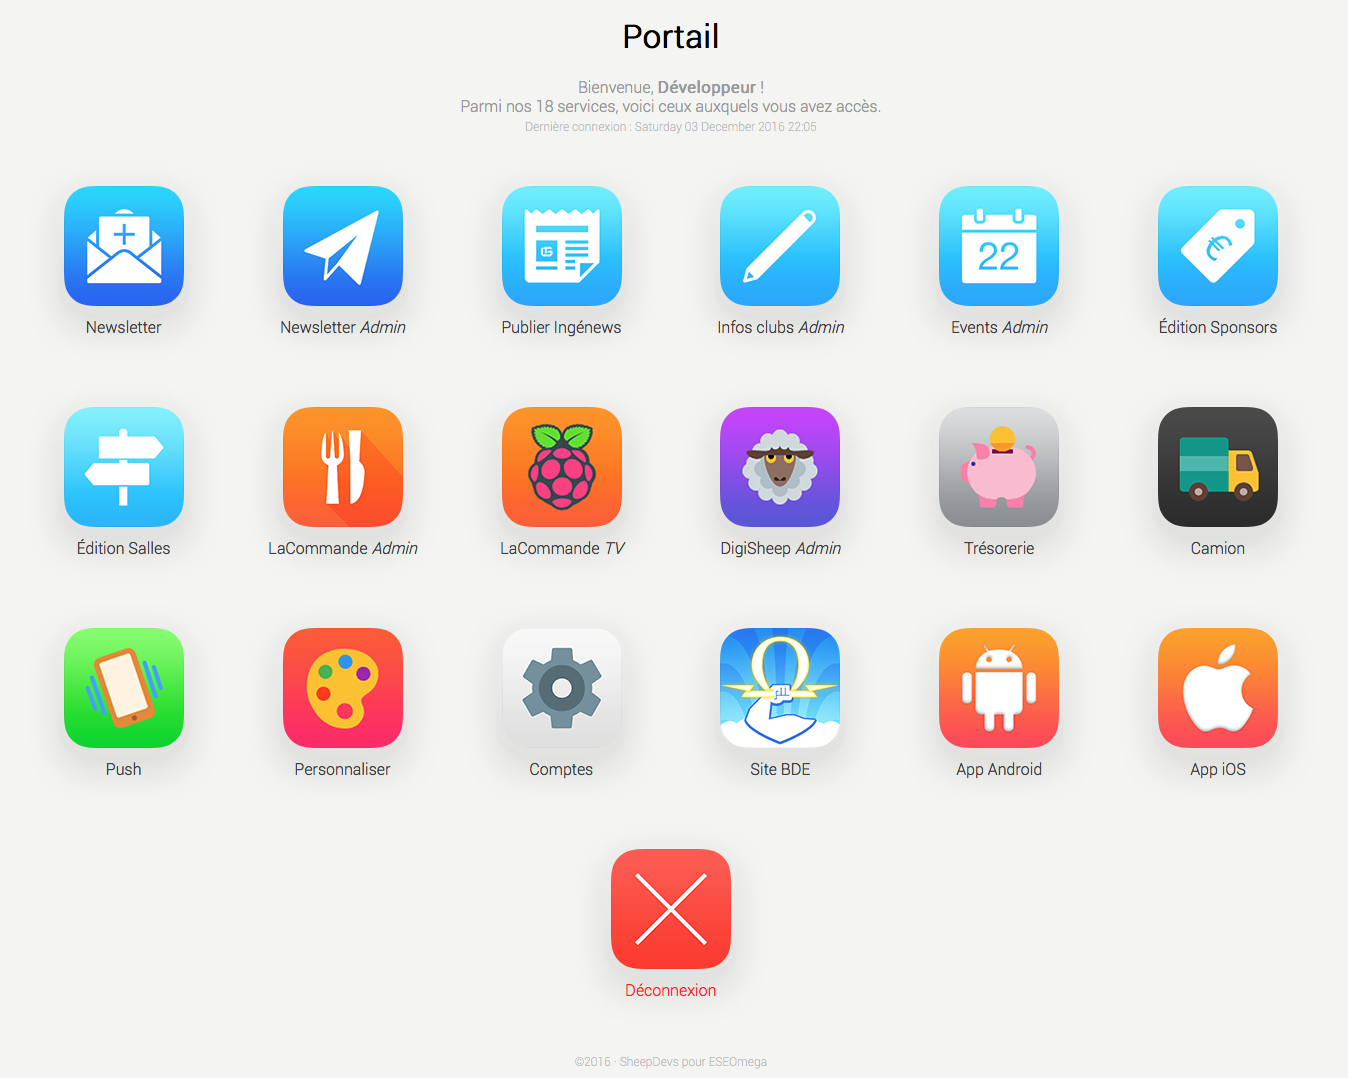
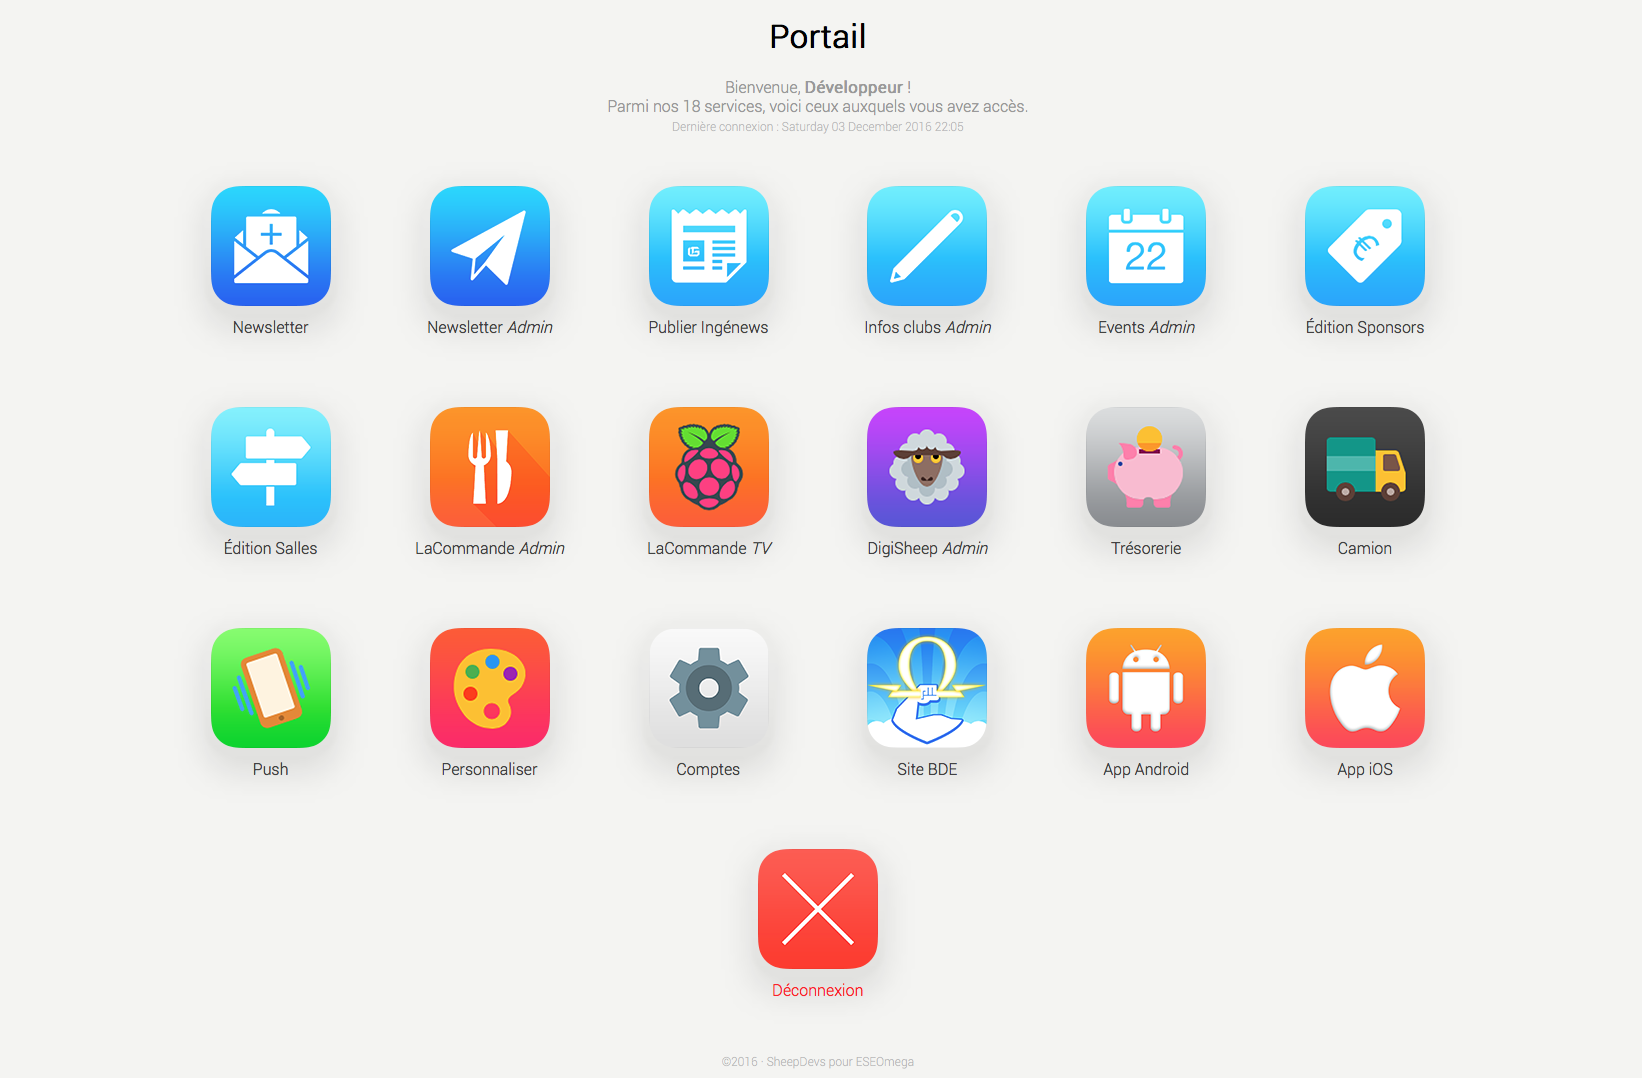
~ Fixed mobile layout
+ Links
+ Digisheep pic
~ Portail/DevCrew pics

diff --git a/style/style.css b/style/style.css
@@ -6,6 +6,11 @@
     font-weight: 300;
 }
 
+body {
+    background: url('../img/bg.png');
+    min-width: 560px;
+}
+
 strong {
     font-weight: 600;
 }
@@ -15,15 +20,6 @@ table {
     width: 99%;
     max-width: 1100px;
     table-layout: fixed;
-}
-
-table td {
-    vertical-align: top;
-}
-
-body {
-    background: url('../img/bg.png');
-    min-width: 740px;
 }
 
 .letterpress {
@@ -197,6 +193,7 @@ header td, th {
 
 #projects td {
     padding: 0px 15px 50px 15px;
+    vertical-align: top;
 }
 
 #projects h1 {
@@ -212,18 +209,14 @@ header td, th {
 
 #projects h3 {
     color: #888;
-    padding: 20px 0 40px 0;
-    font-size: 1.3em;
+    padding: 60px 0 40px 0;
+    font-size: 1.5em;
 }
 
 #projects p {
     color: #747474;
     font-weight: 400;
-    padding: 10px 0px;
-}
-
-#projects td.large p {
-    padding: 20px 0px;
+    padding: 10px 0;
 }
 
 #projects a {
@@ -231,6 +224,8 @@ header td, th {
     text-decoration: none;
     color: #A2A2A2;
     padding-bottom: 5px;
+    text-shadow: 0 1px 0 white;
+    font-weight: 400;
 }
 
 #projects a span {
@@ -255,11 +250,20 @@ header td, th {
     transition: 0.4s box-shadow ease-out;
     border-radius: 5px;
     margin-bottom: 10px;
-    clear: left;
+    white-space: none;
 }
 
 #projects img:hover, #projects video:hover {
     box-shadow: 0px 0px 30px #555;
+}
+
+#projects td.large p {
+    padding: 20px 0;
+}
+
+#projects td.large p, #projects td.large a {
+    margin-left: 60%;
+    padding-left: 40px;
 }
 
 #projects td.large img, #projects td.large video {
@@ -278,4 +282,26 @@ footer {
     text-align: center;
     color: #A2A2A2;
     font-size: 0.8em;
+}
+
+@media only screen and (max-width: 800px) {
+    td, th {
+        display: block;
+    }
+    
+    .stayInline {
+        display: inline-block;
+        width: 42%;
+    }
+    
+    #projects td.large p {
+        padding: 10px 0;
+    }
+
+    #projects td.large img, #projects td.large video {
+        margin-bottom: 10px;
+        float: none;
+        max-width: 100%;
+        max-height: 400px;
+    }
 }

diff --git a/data.php b/data.php
@@ -10,7 +10,10 @@ $PROJECTS =
         ["title"   => "Tramigo",
          "details" => "Always know when you can catch the next tram/subway/bus, you can't be late.<br>Tramigo shows you the schedule at the closest stop, in the city you are currently located. Many other features…<br>&nbsp;<br>Top app in Angers, France.",
          "imgs"    => ["img/projects/tramigo.png"],
-         "links"   => [["Visit website", "http://tomn.tramigoapp.com"], ["Download on the App Store", ""], ["Download on Google Play", ""], ["Download on the Windows Store", ""]]]
+         "links"   => [["Visit website", "http://tramigoapp.com"],
+                       ["Download on the App Store", "https://itunes.apple.com/app/apple-store/id913767394?pt=104224803&ct=Site%20perso&mt=8"],
+                       ["Download on Google Play", "http://tramigoapp.com"],
+                       ["Download on the Windows Store", "http://tramigoapp.com"]]]
     ],
     
     [
@@ -29,72 +32,83 @@ $PROJECTS =
         ["title"   => "Subtle Subtitles",
          "details" => "Subtitle player for movies and TV series:<br>Find, Play, Collect and Share!<br>&nbsp;<br>Thousands of downloads all around the world.",
          "imgs"    => ["img/projects/subtlesubs.png"],
-         "links"   => [["Download on the App Store", ""], ["View on GitHub", ""]]]
+         "links"   => [["Download on the App Store", "https://itunes.apple.com/app/apple-store/id1099663304?pt=104224803&ct=Site%20perso&mt=8"],
+                       ["View on GitHub", "https://github.com/Tomn94/Subtle-Subtitles"]]]
     ],
     
     [
         ["title"   => "Students’ Union app",
          "details" => "Complete iOS app dedicated to students at my Engineering School<br>&nbsp;<br>Gathers news, events, notifications, associations information &amp; contacts, deals, floor plans, file access, games…<br>Includes also a meal-ordering service and a store to buy tickets for events.<br>The app even accepts credit cards.",
          "imgs"    => ["img/projects/bdeeseo.png"],
-         "links"   => [["Download on the App Store", ""], ["View on GitHub", ""]]]
+         "links"   => [["Download on the App Store", "https://itunes.apple.com/app/apple-store/id966385182?pt=104224803&ct=Site%20perso&mt=8"],
+                       ["View on GitHub", "https://github.com/Tomn94/BDE-ESEO"]]]
+    ],
+    
+    [
+        ["title"   => "ESEOmega.fr",
+         "details" => "Dynamic website for my Students’ Union.<br>&nbsp;<br>Fetches data from the Students’ Union API.",
+         "imgs"    => ["img/projects/eseomega.png"],
+         "links"   => [["Visit website", "http://eseomega.fr"]]],
+         
+        ["title"   => "Blue Moon 2016",
+         "details" => "Website to promote and sell tickets for our event welcoming 2,700 students.<br>Featured Kavinsky, Jay Style, Natty Rico, and Dustycloud.",
+         "imgs"    => ["img/projects/bluemoon.mp4"],
+         "links"   => [["Visit website", "http://bluemoon.eseomega.fr"]]]
     ],
     
     [
         ["title"   => "Associations’ Portal",
          "details" => "Provides an API for all the services in Students’ Union iOS and Android apps.<br>&nbsp;<br>Moreover, the Portal allows associations with their IDs to deliver news, notifications, to send to mailing lists, to edit API data based on level access, and to manage the meal/tickets-ordering systems.<br>&nbsp;<br>A TV with a Raspberry Pi is connected to the Portail to show orders in the kitchen.",
          "imgs"    => ["img/projects/portail.png"],
-         "links"   => [["Visit website", ""], ["View on GitHub", ""]]],
+         "links"   => [["Visit website", "http://portail.eseomega.fr"],
+                       ["View on GitHub", "https://github.com/Tomn94/Portail-Vie-Asso-ESEO"]]],
          
         ["title"   => "DigiSheep",
-         "details" => "System to sell/buy tickets (including online), and then scan to grant access on-site.<br>Includes a website to manage data and check stats.<br>&nbsp;<br>Used to manage one event with 2,700 participants.",
-         "imgs"    => ["img/projects/digisheep.png"],
-         "links"   => [["Visit website", ""], ["Download on the App Store", ""], ["View on GitHub", ""]]]
-    ],
-    
-    [
-        ["title"   => "ESEOmega.fr",
-         "details" => "Dynamic website for my Students’ Union.",
-         "imgs"    => ["img/projects/eseomega.png"],
-         "links"   => [["Visit website", ""]]],
-         
-        ["title"   => "Blue Moon 2016",
-         "details" => "Website to promote and sell tickets for our event welcoming 2,700 students.",
-         "imgs"    => ["img/projects/bluemoon.mp4"],
-         "links"   => [["Visit website", ""]]]
+         "details" => "System to sell/buy tickets (including online), and then scan to grant access on-site.<br>Includes a website to manage data and check stats.<br>&nbsp;<br>Used to manage one event with 2,700 participants.<br>&nbsp;<br>Tied to BDE ESEO API and the Portal.",
+         "imgs"    => ["img/projects/digisheep.png", "img/projects/digisheep2.png"],
+         "links"   => [["Visit website", "http://portail.eseomega.fr"],
+                       ["Download on the App Store", "https://itunes.apple.com/app/apple-store/id1084746837?pt=104224803&ct=Site%20perso&mt=8"],
+                       ["View on GitHub", "https://github.com/Tomn94/DigiSheep"]]]
     ],
     
     [
         ["title"   => "Campaign app",
          "details" => "App that made us, ESEOmega, win the 2015 Students’ Union Election.<br>Includes members, events, information, videos, maps, a QR code-scanning game…",
          "imgs"    => ["img/projects/campaignapp.jpg"],
-         "links"   => [["View on GitHub", ""], ["Photograph © François Leparoux", "https://github.com/rascafr"]]],
+         "links"   => [["View on GitHub", "https://github.com/Tomn94/Campagne-ESEOmega"],
+                       ["Photograph © François Leparoux", "https://github.com/rascafr"]]],
          
         ["title"   => "Campaign website",
          "details" => "Website and API accompanying the app.<br>You should have seen the parallax effect and the opening animation!",
          "imgs"    => ["img/projects/campaignweb.png"],
-         "links"   => [["View on GitHub", ""]]],
+         "links"   => [["View on GitHub", "https://github.com/Tomn94/Campagne-ESEOmega.fr"]]],
          
         ["title"   => "MATLABit",
          "details" => "First app in Swift including a Fruit Ninja, a Tinder-like game and many funny useless features.<br>Enjoyed by students at the 2016 campaign.",
          "imgs"    => ["img/projects/matlabit.png"],
-         "links"   => [["Download on the App Store", ""], ["View on GitHub", ""]]]
+         "links"   => [["Download on the App Store", "https://itunes.apple.com/app/apple-store/id1102827778?pt=104224803&ct=Site%20perso&mt=8"],
+                       ["View on GitHub", "https://github.com/Tomn94/MATLABit"]]]
     ],
     
     [
         ["title"   => "@tomn_ebooks",
          "details" => "Me, as a Twitter bot.<br>Mix of my tweets.",
          "imgs"    => ["img/projects/ebooks.png"],
-         "links"   => [["View on Twitter", ""], ["View on GitHub", ""]]],
+         "links"   => [["View on Twitter", "https://twitter.com/tomn_ebooks"],
+                       ["View on GitHub", "https://github.com/Tomn94/ebooks_example"]],
+         "inline"  => true],
          
         ["title"   => "Music Tweet",
          "details" => "Simple app for iOS to share on Twitter the music from any app being currently played, including the artist and the album artwork.",
          "imgs"    => ["img/projects/musictweet.png"],
-         "links"   => [["View on GitHub", ""]]],
+         "links"   => [["View on GitHub", "https://github.com/Tomn94/Music-Tweet"]],
+         "inline"  => true],
          
         ["title"   => "Misc-Tools",
          "details" => "LaTeX base for documents, Apple Scripts…",
          "imgs"    => ["img/projects/latex.png"],
-         "links"   => [["View on GitHub", ""]]]
+         "links"   => [["View on GitHub", "https://github.com/Tomn94/Misc-Tools"]],
+         "inline"  => true]
     ],
     
     "// Deprecated projects",
@@ -106,57 +120,66 @@ $PROJECTS =
          "links"   => []],
          
         ["title"   => "∞Crypt",
-         "details" => "Encrypt & decrypt your texts and files with secure algorithms, in an innovative way thanks to plug-ins.<br>∞Crypt Text & ∞Crypt Files are cross-platform desktop apps.",
-         "imgs"    => ["img/projects/infinicrypttext.png", "img/projects/infinicryptfiles.png"],
+         "details" => "Encrypt & decrypt your files and texts with secure algorithms, in an innovative way thanks to plug-ins.<br>∞Crypt Files & ∞Crypt Text are cross-platform desktop apps.",
+         "imgs"    => ["img/projects/infinicryptfiles.png", "img/projects/infinicrypttext.png"],
          "links"   => []],
          
         ["title"   => "Tunnel Runners",
          "details" => "Multiplayer high-speed races and fights between vehicles in a tunnel.<br>Create your own tracks & play with your friends.",
          "imgs"    => ["img/projects/tunnelrunners.png"],
-         "links"   => []],
+         "links"   => [],
+         "inline"  => true],
          
         ["title"   => "Mario",
          "details" => "<em>Mario & Luigi: Yoshis' Cookies Story</em> is a 2D Mario adventure gathering most of the characters from Mario games.",
          "imgs"    => ["img/projects/mario.png"],
-         "links"   => []]
+         "links"   => [],
+         "inline"  => true]
     ],
     
     [
         ["title"   => "Network Chat",
          "details" => "Client & server multi-platform chat on a local network.<br>Inconspicuous user interface, file transferts, chat commands…",
          "imgs"    => ["img/projects/netchat.png"],
-         "links"   => []],
+         "links"   => [],
+         "inline"  => true],
          
         ["title"   => "DevCrew",
          "details" => "Website for a team of developers I was a member.",
          "imgs"    => ["img/projects/devcrew.jpg"],
-         "links"   => []],
+         "links"   => [],
+         "inline"  => true],
          
         ["title"   => "DelDots",
          "details" => "Deletes every macOS hidden file (used by Spotlight) in a given folder.",
          "imgs"    => ["img/projects/deldots.png"],
-         "links"   => []],
+         "links"   => [],
+         "inline"  => true],
          
         ["title"   => "InstaTP",
          "details" => "Specific program: assembles C files into a single smart C file.",
          "imgs"    => ["img/projects/tp.jpg"],
-         "links"   => []]
+         "links"   => [],
+         "inline"  => true]
     ],
     
     [
         ["title"   => "BaggIt",
          "details" => "Gather every profile you have on the Internet on a single customizable page.",
          "imgs"    => ["img/projects/baggit.jpg"],
-         "links"   => []],
+         "links"   => [],
+         "inline"  => true],
          
         ["title"   => "Cortexis",
          "details" => "Rich platform for schools (mail, forums, sharing tools…).",
          "imgs"    => ["img/projects/cortexis.jpg"],
-         "links"   => []],
+         "links"   => [],
+         "inline"  => true],
          
-        ["title"   => "Ball",
-         "details" => "List of user-submitted songs in order to contribute to a Charity Dance.",
+        ["title"   => "Charity Dance",
+         "details" => "List of user-submitted songs in order to contribute to a ball.",
          "imgs"    => ["img/projects/ball.jpg"],
-         "links"   => []]
+         "links"   => [],
+         "inline"  => true]
     ]
 ];

diff --git a/index.php b/index.php
@@ -7,6 +7,7 @@
   <head>
     <meta charset="utf-8">
     <title><?php echo $PAGE_TITLE; ?></title>
+    <meta name="viewport" content="width=device-width">
     <link rel="stylesheet" href="style/style.css">
     <script src="scripts/script.js"></script>
     
@@ -87,18 +88,32 @@
               <tr>
                   <?php
                     foreach ($projectsRow as $project) {
-                       echo (count($projectsRow) == 1) ? '<td class="large">' : '<td>';
+                       echo '<td';
+                       if (count($projectsRow) == 1 || (isset($project["inline"]) && $project["inline"])) {
+                           echo ' class="';
+                           if (count($projectsRow) == 1) echo "large ";
+                           if (isset($project["inline"]) && $project["inline"]) echo "stayInline ";
+                           echo '"';
+                       }
+                       echo '>';
                        foreach ($project["imgs"] as $img) {
                           if (strpos($img, '.mp4') !== false) {
                   ?>
-                  <video autoplay loop>
+                  <video muted loop autoplay playsinline>
                     <source src="<?php echo $img; ?>" type="video/mp4" />
                     Your browser does not support the video tag.
                   </video>
                   <?php
                           } else {
                   ?>
-                    <img src="<?php echo $img; ?>" title="<?php echo $project["title"]; if ($project["title"] == 'DelDots') echo '" style="border-radius: 15px;'; ?>" /><?php } } ?>
+                    <img src="<?php echo $img; ?>" title="<?php
+                        echo $project["title"];
+                        if ($project["title"] == 'DelDots') echo '" style="border-radius: 15px;';
+                        if ($project["title"] == 'DigiSheep') echo '" style="max-width: 37%;';
+                        ?>" /><?php
+                          }
+                       } ?>
+                       
                     <br>
                     <h2><?php echo $project["title"]; ?></h2>
                     <p><?php echo $project["details"]; ?></p>
